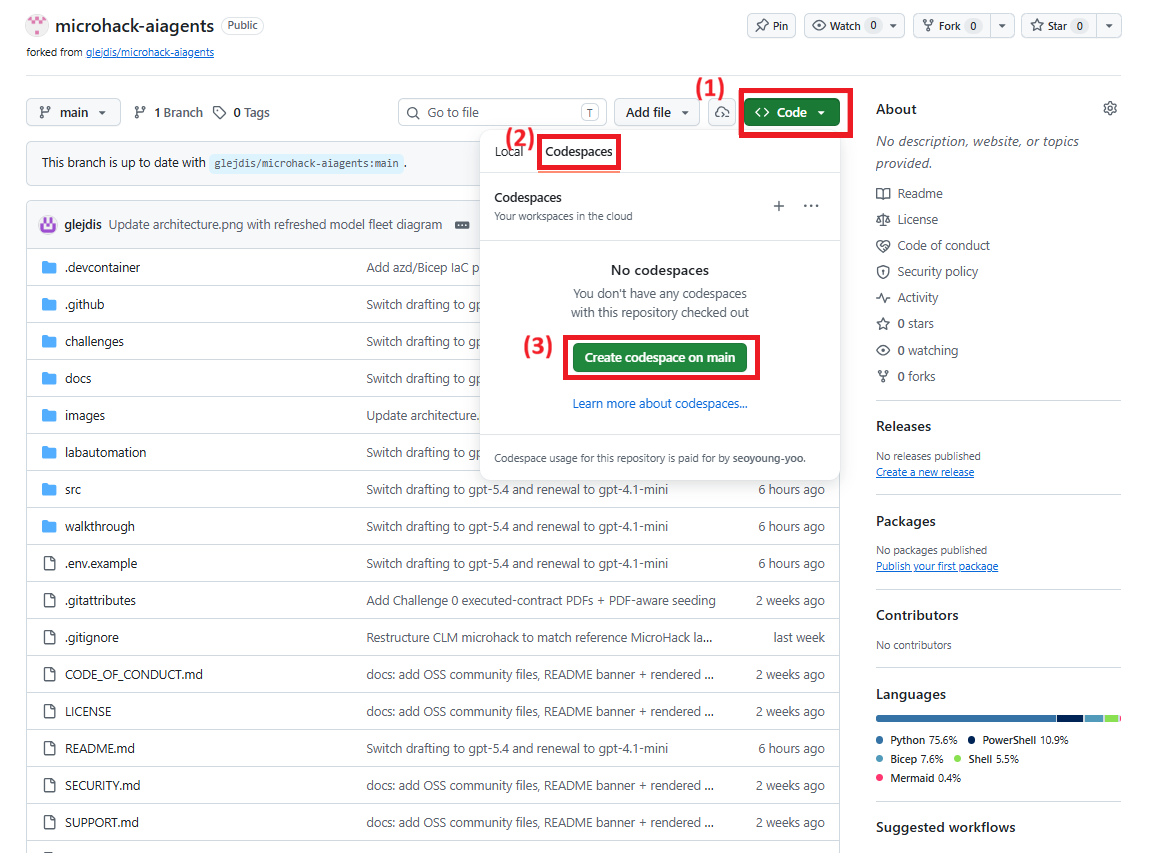
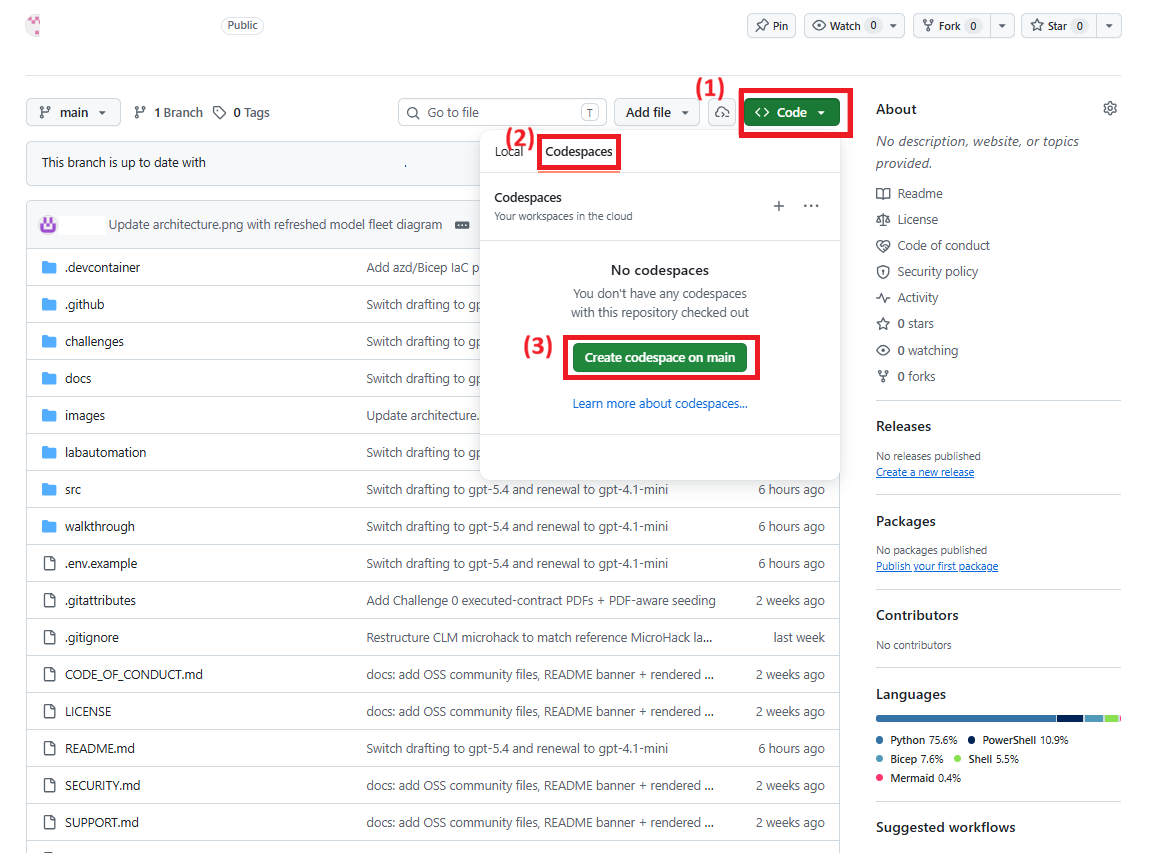
Simplify challenge-01 Task 1 and anonymize Codespace screenshot
Merge the 'open Codespace' and 'launch dev environment' steps into one compact Task 1 and renumber the downstream tasks (3->2 ... 7->6), updating all internal cross-references and anchors. Remove the hard-coded repo URL from the step and re-add the (now anonymized) create-codespace screenshot.

Whiten personal identifiers in 02-create-codespace.png: repo name (title, forked-from link, branch badge), 'forked from' label, commit author, and the Codespaces billing note.

Copilot-Session: e9d165a1-0761-495a-8e5d-8ee61c75a0c4

diff --git a/challenges/challenge-01.md b/challenges/challenge-01.md
@@ -132,53 +132,29 @@ text at crawl time); regenerate the PDFs with `python src/scripts/make_corpus_pd
 - [ ] Your Azure subscription can deploy **GPT** models (ask your coach if unsure).
 - [ ] You have ~30 minutes and a stable connection (provisioning takes 5–10 min on its own).
 
-### Task 1 · Open the code in a Codespace (~2 min)
+### Task 1 · Open the Codespace (~7 min)
 
-**No fork needed.** You read the challenge steps in the MicroHack repo; the **code you run lives in
-this companion repo**. Open it directly in **GitHub Codespaces** — a full VS Code + terminal in your
-browser, no local installs. Because you work off the source repo, `git pull` always gets the latest
-fixes (there's no fork to fall behind).
+**No fork needed** — the code you run lives in this repo. Open it in **GitHub Codespaces** (a full VS
+Code + terminal in your browser, zero local install); because you work off the source repo, `git pull`
+always gets the latest fixes.
 
-1. Go to **[github.com/glejdis/microhack-aiagents](https://github.com/glejdis/microhack-aiagents)**.
-2. Click the green **`< > Code`** button, then the **Codespaces** tab.
-3. Click **Create codespace on `main`**.
+1. On the repo's GitHub page, click **`< > Code` → Codespaces → Create codespace on `main`**.
+   *(Prefer local? `git clone` the repo and **Reopen in Container** with the VS Code Dev Containers
+   extension.)*
+2. Wait for the container to build — it installs dependencies with `pip install -r requirements.txt`
+   automatically. When the terminal stops scrolling and shows a prompt, it's ready.
 
-> 📸 **Screenshot slot — what you'll see:** the **Code → Codespaces → Create codespace on main** menu.
->
-> <img src="../images/challenge-01/steps/02-create-codespace.png" alt="Screenshot slot: create a Codespace" width="80%">
+<img src="../images/challenge-01/steps/02-create-codespace.png" alt="GitHub · Code → Codespaces → Create codespace on main" width="80%">
 
-✅ **You'll know it worked when:** a new browser tab opens and starts **building your Codespace**.
-
-> [!TIP]
-> Prefer working locally? `git clone https://github.com/glejdis/microhack-aiagents.git`, open it in
-> VS Code, and **Reopen in Container** (Dev Containers extension) for the same environment.
-
----
-
-### Task 2 · Launch the development environment (~5 min)
-
-Your Codespace builds the **devcontainer** automatically — no local installs, no "works on my
-machine." Everything below runs inside it.
-
-1. Wait for the build to finish — it auto-runs `pip install -r requirements.txt`. First build takes
-   a few minutes. When the terminal at the bottom stops scrolling and shows a prompt, it's ready.
-
-> 📸 **Screenshot slot — what you'll see:** the ready Codespace — a VS Code editor with a terminal at the bottom.
->
-> <img src="../images/challenge-01/steps/03-codespace-ready.png" alt="Screenshot slot: codespace ready" width="80%">
-
-✅ **You'll know it worked when:** you see a VS Code editor in the browser with a **Terminal** panel
-at the bottom showing a ready prompt (e.g. `@your-username ➜ /workspaces/microhack-aiagents (main) $`).
+✅ **You'll know it worked when:** a browser VS Code editor opens with a **Terminal** panel showing a
+ready prompt (e.g. `@your-username ➜ /workspaces/microhack-aiagents (main) $`).
 
 > [!NOTE]
-> If GitHub Codespaces is not enabled in your organization, see [enabling or disabling Codespaces](https://docs.github.com/en/codespaces/managing-codespaces-for-your-organization/enabling-or-disabling-github-codespaces-for-your-organization), or create a [free personal GitHub account](https://github.com/signup). The Free plan includes 120 core-hours/month.
-
-> [!TIP]
-> While the Codespace builds, skim the [hackathon scenario & architecture](../README.md#the-scenario--contoso-global) so the pieces you deploy here make sense.
+> If Codespaces isn't enabled in your org, see [enabling Codespaces](https://docs.github.com/en/codespaces/managing-codespaces-for-your-organization/enabling-or-disabling-github-codespaces-for-your-organization) or use a [free personal account](https://github.com/signup) (120 core-hours/month free). While it builds, skim the [scenario & architecture](../README.md#the-scenario--contoso-global) so the pieces you deploy here make sense.
 
 ---
 
-### Task 3 · Log in to Azure (~3 min)
+### Task 2 · Log in to Azure (~3 min)
 
 Now connect the terminal to your Azure account. In the Codespace **Terminal**, type this and press Enter:
 
@@ -215,11 +191,11 @@ az account set --subscription "<your-subscription-id>"
 
 ---
 
-### Task 4 · Deploy the resources (~8 min)
+### Task 3 · Deploy the resources (~8 min)
 
 > [!IMPORTANT]
 > Depending on the setup for your event, the Azure resources may already be provisioned for you — in
-> which case you can **skip to Task 6**. Check with your coach what applies.
+> which case you can **skip to Task 5**. Check with your coach what applies.
 
 Choose a region that offers **all three** models. This repo's infra is pre-pinned to models that are
 available in **`swedencentral`** today (`gpt-5.4`, `gpt-5.6-sol`, `gpt-5.4-nano`), so
@@ -263,7 +239,7 @@ azd up
 | Prompt | What to type |
 |--------|--------------|
 | `Enter a new environment name` | anything short + lowercase, e.g. **`clm-microhack`** |
-| `Select an Azure Subscription` | the subscription you set in Task 3 (arrow keys → Enter) |
+| `Select an Azure Subscription` | the subscription you set in Task 2 (arrow keys → Enter) |
 | `Select an Azure location` | **`Sweden Central`** (start typing `sweden` to filter) |
 
 > 📸 **Screenshot slot — what you'll see:** the three `azd up` prompts (environment name, subscription, region).
@@ -364,7 +340,7 @@ Options A and B write a populated **`.env`** automatically; Option C writes it v
 
 ---
 
-### Task 5 · Verify your resources (~3 min)
+### Task 4 · Verify your resources (~3 min)
 
 Let's confirm everything landed. Do all three checks:
 
@@ -409,7 +385,7 @@ APPLICATIONINSIGHTS_CONNECTION_STRING=InstrumentationKey=...
 
 ---
 
-### Task 6 · Seed the corpus (~7 min)
+### Task 5 · Seed the corpus (~7 min)
 
 Build the `clm-corpus` search index that grounds every later challenge (2–6). **The default is
 Path B (local-PDF) — it needs no SharePoint, no admin consent, and works in every tenant.** Path A
@@ -437,7 +413,7 @@ Path B (local-PDF) — it needs no SharePoint, no admin consent, and works in ev
 >    ```bash
 >    sed -i -E 's/^(SHAREPOINT_SITE_URL|SHAREPOINT_APP_ID|SHAREPOINT_APP_SECRET|SHAREPOINT_TENANT_ID)=.*/\1=/' .env
 >    ```
->    (Confirm `AZURE_SEARCH_ENDPOINT=` is still set from Task 4's deploy.)
+>    (Confirm `AZURE_SEARCH_ENDPOINT=` is still set from Task 3's deploy.)
 > 2. **Seed the corpus:**
 >    ```bash
 >    python src/scripts/seed_corpus.py
@@ -447,7 +423,7 @@ Path B (local-PDF) — it needs no SharePoint, no admin consent, and works in ev
 >    Contributor** role, which `azd up` already granted you — if a doc fails, wait a minute for
 >    role propagation and re-run; the script is idempotent.)*
 > 3. Confirm a **non-zero document count** (portal → Search service → Indexes → `clm-corpus`), then
->    **jump to [Task 7](#task-7--smoke-test).**
+>    **jump to [Task 6](#task-6--smoke-test).**
 >
 > **This has zero impact on Challenges 2–6** — the agents only ever read the `clm-corpus` index,
 > never SharePoint directly. Both paths produce the identical index.
@@ -471,9 +447,9 @@ Path B (local-PDF) — it needs no SharePoint, no admin consent, and works in ev
 > ✅ Done. SharePoint is now your corpus source: https://<tenant>.sharepoint.com/sites/clm-microhack-corpus
 > ```
 > Confirm a **non-zero document count** (portal → Search service → Indexes → `clm-corpus`), then
-> **jump to [Task 7](#task-7--smoke-test).**
+> **jump to [Task 6](#task-6--smoke-test).**
 >
-> **Prerequisites:** `az login` as your sandbox admin, and Task 4's deploy already wrote `.env`
+> **Prerequisites:** `az login` as your sandbox admin, and Task 3's deploy already wrote `.env`
 > (so `AZURE_SEARCH_ENDPOINT` is set). The script is **idempotent** — safe to re-run — and takes
 > flags `--dry-run` (preview only), `--skip-upload`, `--skip-index`, and
 > `--site-url https://<tenant>.sharepoint.com/sites/<name>` (to reuse a site you already have).
@@ -694,7 +670,7 @@ the index is populated immediately.)*
 
 ---
 
-### Task 7 · Smoke test (~2 min)
+### Task 6 · Smoke test (~2 min)
 
 The final check — prove the project is reachable and that the GPT model fleet runs:
 
@@ -748,10 +724,10 @@ Smoke test: ✅ PASS
 
 | Symptom | Fix |
 |---------|-----|
-| `DeploymentModelNotSupported` / `deployment failed` for a model | **First: is your checkout current?** Run the [preflight grep](#task-4--deploy-the-resources) — it must show `gpt-5.4`+`2026-03-05`, `gpt-5.6-sol`+`2026-07-09`, and `gpt-5.4-nano`+`2026-03-17`. If you see `gpt-5.3-chat`, `2026-03-03`, `2025-11-01`, renewal `gpt-5.4-nano` `2025-04-14`, or `gpt-4o-mini`, run `git pull`, then redeploy. **Otherwise** the model **name or version** isn't offered in your region: list what *is* available with `az cognitiveservices model list --location <region> --output table`, then update the model/version in [`infra/resources.bicep`](../labautomation/infra/resources.bicep) (and `labautomation/deploy.sh`). This repo is pre-pinned for `swedencentral`; if you changed regions, switch back or re-pin. |
+| `DeploymentModelNotSupported` / `deployment failed` for a model | **First: is your checkout current?** Run the [preflight grep](#task-3--deploy-the-resources) — it must show `gpt-5.4`+`2026-03-05`, `gpt-5.6-sol`+`2026-07-09`, and `gpt-5.4-nano`+`2026-03-17`. If you see `gpt-5.3-chat`, `2026-03-03`, `2025-11-01`, renewal `gpt-5.4-nano` `2025-04-14`, or `gpt-4o-mini`, run `git pull`, then redeploy. **Otherwise** the model **name or version** isn't offered in your region: list what *is* available with `az cognitiveservices model list --location <region> --output table`, then update the model/version in [`infra/resources.bicep`](../labautomation/infra/resources.bicep) (and `labautomation/deploy.sh`). This repo is pre-pinned for `swedencentral`; if you changed regions, switch back or re-pin. |
 | `ServiceModelDeprecating` for `gpt-4o-mini` (or another model) | Your checkout pins a **deprecating model**. The repo now uses `gpt-5.4-nano` `2026-03-17` for the renewal agent — run `git pull`. If you deliberately changed a version, pick a current one from `az cognitiveservices model list --location <region> --output table` (avoid ones with a near/past `deprecation.inference` date). |
 | `Project can only be created under AIServices Kind account with allowProjectManagement set to true` | Fixed in the template (`account.properties.allowProjectManagement: true`). If you hit it, your checkout is behind — run `git pull` and redeploy. |
-| SharePoint: *"Tenant does not have a SPO license"*, or you can't grant the app's Graph **admin consent** (only Global Reader / **"Grant admin consent" greyed out**) | Only happens if you're **not** an admin of the tenant — in your own sandbox tenant the Path A script self-grants consent. If you hit it, it's **not** a failure: use the **local-PDF fallback (Path B)** — leave the `SHAREPOINT_*` values blank in `.env` and run `python src/scripts/seed_corpus.py`. It extracts `src/data/**/*.pdf` and populates `clm-corpus` directly (needs the Search Index Data Contributor role, granted by `azd up`) — the **same index** the SharePoint path builds, so Challenges 2–6 are unaffected. See [Task 6, Path B](#task-6--seed-the-corpus). |
+| SharePoint: *"Tenant does not have a SPO license"*, or you can't grant the app's Graph **admin consent** (only Global Reader / **"Grant admin consent" greyed out**) | Only happens if you're **not** an admin of the tenant — in your own sandbox tenant the Path A script self-grants consent. If you hit it, it's **not** a failure: use the **local-PDF fallback (Path B)** — leave the `SHAREPOINT_*` values blank in `.env` and run `python src/scripts/seed_corpus.py`. It extracts `src/data/**/*.pdf` and populates `clm-corpus` directly (needs the Search Index Data Contributor role, granted by `azd up`) — the **same index** the SharePoint path builds, so Challenges 2–6 are unaffected. See [Task 5, Path B](#task-5--seed-the-corpus). |
 | `account project create` unavailable | The CLI project command is preview. Create the project in the **Foundry portal**, then set `AZURE_AI_PROJECT_ENDPOINT` in `.env` manually (Overview → Endpoint). |
 | `az login` in Codespaces | Use `az login --use-device-code`. |
 | Search / quota errors | Ensure the subscription has quota for Basic Search + the model SKUs; request quota if needed. |
